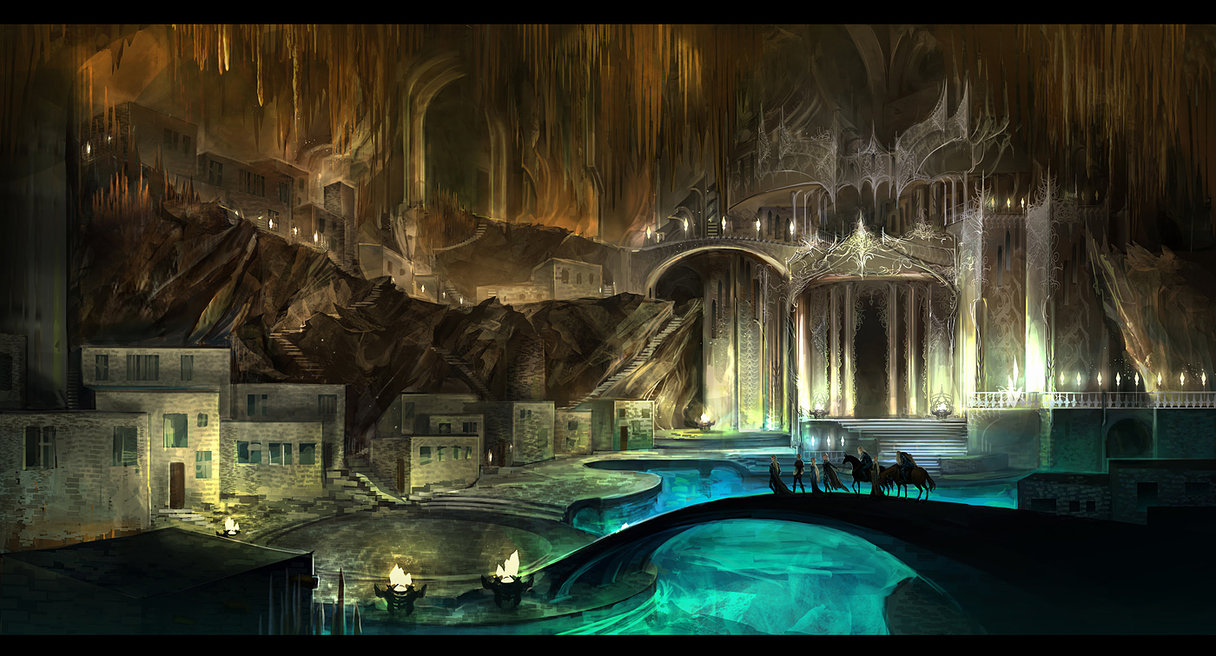
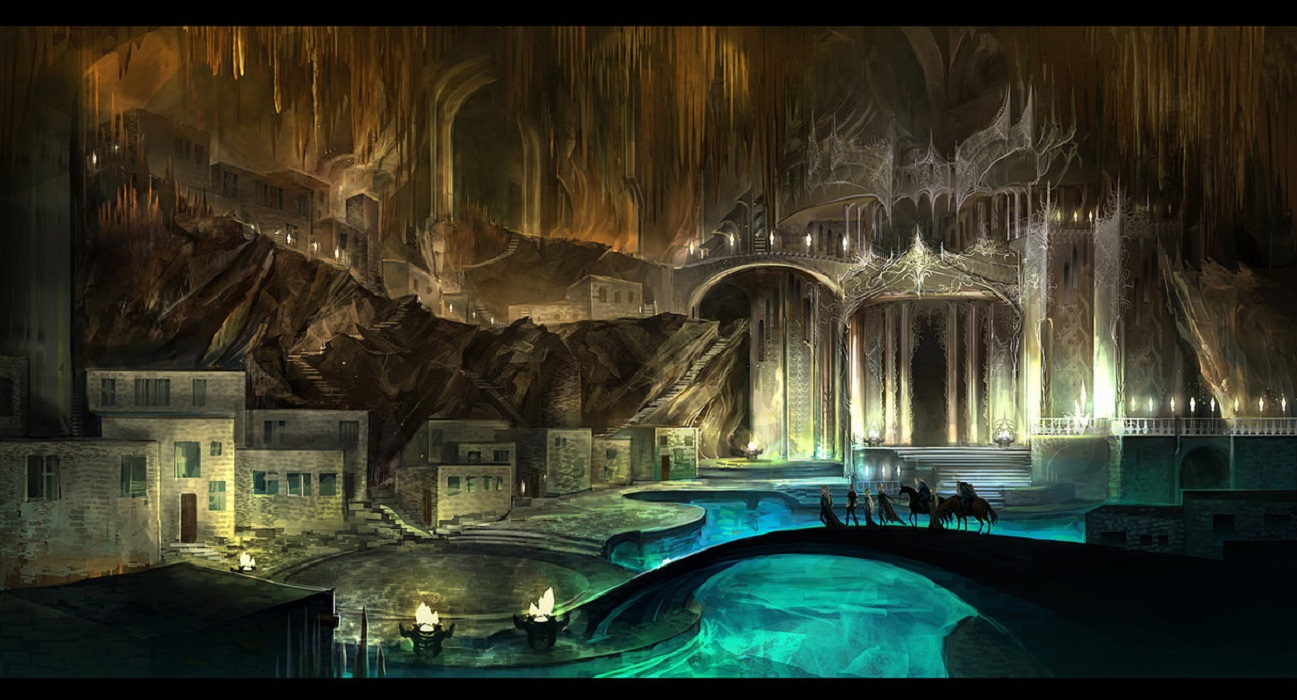
pics and town reworks

diff --git a/public/app/battle/battle.js b/public/app/battle/battle.js
@@ -1,156 +1,157 @@
 app.factory('battle', function(Hero, notifier){
 
-        return {
-            battle: function(hero, minion){  //Otherwise it is used once
-                var turnCount = 1,
-                    enemyMove = false,
-                    winLoseCheck = false;
+    return {
+        battle: function(hero, minion){  //Otherwise it is used once
+            var turnCount = 1,
+                enemyMove = false,
+                winLoseCheck = false;
 
-                function getRandomInt(min, max) {
-                    return Math.floor(Math.random() * (max - min + 1)) + min;
+            function getRandomInt(min, max) {
+                return Math.floor(Math.random() * (max - min + 1)) + min;
+            }
+
+            function getAttack(attacker) {
+                return getRandomInt(attacker.dm[0], attacker.dm[1]);
+            }
+
+            function getDefense(defender) {
+                return Math.round(defender.df + (getRandomInt(0, 10) / 100));
+            }
+
+            function Atack(attacker, defender) {
+                var attackerAtack = getAttack(attacker),
+                    defenderDefense = getDefense(defender);
+
+                if (attackerAtack > defenderDefense) {
+                    defender.hp -= attackerAtack - defenderDefense;
+                    updateLogger(attacker, attackerAtack - defenderDefense, defender);
+                    CheckWinLose();
                 }
-
-                function getAttack(attacker) {
-                    return getRandomInt(attacker.dm[0], attacker.dm[1]);
+                else if (attackerAtack < defenderDefense) {
+                    defender.hp -= defenderDefense - attackerAtack;
+                    updateLogger(defender, defenderDefense - attackerAtack, attacker);
+                    CheckWinLose();
                 }
-
-                function getDefense(defender) {
-                    return Math.round(defender.df + (getRandomInt(0, 10) / 100));
+                else {
+                    updateLogger(attacker, 0, defender);
                 }
+            }
 
-                function Atack(attacker, defender) {
-                    var attackerAtack = getAttack(attacker),
-                        defenderDefense = getDefense(defender);
+            function Defend(attacker, defender) {
+                var attackerAtack = getAttack(attacker),
+                    defenderDefense = getDefense(defender);
 
-                    if (attackerAtack > defenderDefense) {
-                        defender.hp -= attackerAtack - defenderDefense;
-                        updateLogger(attacker, attackerAtack - defenderDefense, defender);
-                        CheckWinLose();
-                    }
-                    else if (attackerAtack < defenderDefense) {
-                        defender.hp -= defenderDefense - attackerAtack;
-                        updateLogger(defender, defenderDefense - attackerAtack, attacker);
-                        CheckWinLose();
-                    }
-                    else {
-                        updateLogger(attacker, 0, defender);
-                    }
+                if (defenderDefense > attackerAtack) {
+                    attacker.hp -= defenderDefense - attackerAtack;
+                    updateLogger(defender, defenderDefense - attackerAtack, attacker);
+                    CheckWinLose();
                 }
-
-                function Defend(attacker, defender) {
-                    var attackerAtack = getAttack(attacker),
-                        defenderDefense = getDefense(defender);
-
-                    if (defenderDefense > attackerAtack) {
-                        attacker.hp -= defenderDefense - attackerAtack;
-                        updateLogger(defender, defenderDefense - attackerAtack, attacker);
-                        CheckWinLose();
-                    }
-                    else if (defenderDefense < attackerAtack) {
-                        defender.hp -= attackerAtack - defenderDefense;
-                        updateLogger(attacker, attackerAtack - defenderDefense, defender);
-                        CheckWinLose();
-                    }
-                    else {
-                        updateLogger(attacker, 0, defender);
-                    }
+                else if (defenderDefense < attackerAtack) {
+                    defender.hp -= attackerAtack - defenderDefense;
+                    updateLogger(attacker, attackerAtack - defenderDefense, defender);
+                    CheckWinLose();
                 }
-
-                function Escape() {
-                    var chance = getRandomInt(0, 1);
-                    if (chance === 0) {
-                        notifier.success("ESCAPED");
-                        //alert("ESCAPED");
-                        window.location.href = '#/map';
-                    }
-                    else {
-                        notifier.error("You couldn't Escape!")
-                        //alert("You couldn't Escape!");
-                    }
+                else {
+                    updateLogger(attacker, 0, defender);
                 }
+            }
 
-                function CheckWinLose() {
-                    if (hero.hp <= 0 && winLoseCheck == false) {
-                        winLoseCheck = true;
-                        notifier.error('YOU LOST');
-                        //alert("YOU LOST");
-                        hero.location = hero.home;
-                        Hero.updateHero(hero)
-                        window.location.href = '#/town';
-                    }
-                    if (minion.hp <= 0 && winLoseCheck == false) {
-                        winLoseCheck = true;
-                        notifier.success("YOU WIN\n" + "you got " + minion.gold + "gold and " + minion.ss + "soul stones!");
-                        //alert("YOU WIN\n" + "you got " + minion.gold + "gold and " + minion.ss + "soul stones!");
-                        hero.gold += minion.gold;
-                        hero.ss += minion.ss;
-                        window.location.href = '#/map';
-                    }
-                    Hero.updateHero(hero)
+            function Escape() {
+                var chance = getRandomInt(0, 1);
+                if (chance === 0) {
+                    notifier.success("ESCAPED");
+                    //alert("ESCAPED");
+                    window.location.href = '#/map';
                 }
-
-                function getEnemyMove() {
-                    var playerAtack = getAttack(hero),
-                        playerDefense = getDefense(hero),
-                        minionDefense = getDefense(minion),
-                        minionAtack = getAttack(minion);
-
-                    if (playerDefense < minionAtack) {
-                        $('#logger').append('Enemy desided to attack!').append('<br/>');
-                        updateScroll();
-                        Atack(minion, hero);
-                        enemyMove = false;
-                    }
-                    else if (playerAtack < minionDefense) {
-                        $('#logger').append('Enemy desided to defend!').append('<br/>');
-                        updateScroll();
-                        Defend(hero, minion);
-                        enemyMove = false;
-                    }
-                    else {
-                        $('#logger').append('Enemy desided to pass!').append('<br/>');
-                        updateScroll();
-                        //PASS
-                    }
+                else {
+                    notifier.error("You couldn't Escape!")
+                    //alert("You couldn't Escape!");
                 }
+            }
 
-                function updateScroll() {
-                    $('#battleLog').scrollTop($('#battleLog')[0].scrollHeight);
+            function CheckWinLose() {
+                if (hero.hp <= 0 && winLoseCheck == false) {
+                    winLoseCheck = true;
+                    notifier.error('YOU LOST');
+                    //alert("YOU LOST");
+                    hero.location = hero.home;
+                    Hero.updateHero(hero);
+                    window.location.href = '#/town';
                 }
-
-                function updateLogger(deler, dm, receiver) {
-                    $('#logger').append(deler.name + ' dealt ' + dm + ' damage to ' + receiver.name).append('<br/>');
-                    updateScroll()
+                if (minion.hp <= 0 && winLoseCheck == false) {
+                    winLoseCheck = true;
+                    notifier.success("YOU WIN\n" + "you got " + minion.gold + "gold and " + minion.ss + "soul stones!");
+                    //alert("YOU WIN\n" + "you got " + minion.gold + "gold and " + minion.ss + "soul stones!");
+                    hero.gold += minion.gold;
+                    hero.ss += minion.ss;
+                    window.location.href = '#/map';
                 }
+                Hero.updateHero(hero)
+            }
 
- /*ATTACK*/     $('#attack').click(function () {
-                    $('#logger').append('===TURN ' + turnCount + '===').append('<br/>');
-                    turnCount++;
-                    $('#logger').append('You attack!').append('<br/>')
-                    Atack(hero, minion);
-                    getEnemyMove();
-                });
+            function getEnemyMove() {
+                var playerAtack = getAttack(hero),
+                    playerDefense = getDefense(hero),
+                    minionDefense = getDefense(minion),
+                    minionAtack = getAttack(minion);
+
+                if (playerDefense < minionAtack) {
+                    $('#logger').append('Enemy desided to attack!').append('<br/>');
+                    updateScroll();
+                    Atack(minion, hero);
+                    enemyMove = false;
+                }
+                else if (playerAtack < minionDefense) {
+                    $('#logger').append('Enemy desided to defend!').append('<br/>');
+                    updateScroll();
+                    Defend(hero, minion);
+                    enemyMove = false;
+                }
+                else {
+                    $('#logger').append('Enemy desided to pass!').append('<br/>');
+                    updateScroll();
+                    //PASS
+                }
+            }
+
+            function updateScroll() {
+                $('#battleLog').scrollTop($('#battleLog')[0].scrollHeight);
+            }
+
+            function updateLogger(deler, dm, receiver) {
+                $('#logger').append(deler.name + ' dealt ' + dm + ' damage to ' + receiver.name).append('<br/>');
+                updateScroll()
+            }
+
+
+/*ATTACK*/     $('#attack').click(function () {
+                $('#logger').append('===TURN ' + turnCount + '===').append('<br/>');
+                turnCount++;
+                $('#logger').append('You attack!').append('<br/>')
+                Atack(hero, minion);
+                getEnemyMove();
+            });
 
 /*DEFEND*/      $('#defend').click(function(){
-                    $('#logger').append('===TURN ' + turnCount +'===').append('<br/>');
-                    turnCount++;
-                    $('#logger').append('You defend!').append('<br/>')
-                    Defend(minion, hero);
-                    getEnemyMove();
-                });
+                $('#logger').append('===TURN ' + turnCount +'===').append('<br/>');
+                turnCount++;
+                $('#logger').append('You defend!').append('<br/>')
+                Defend(minion, hero);
+                getEnemyMove();
+            });
 /*ITEM*/        $('#item').click(function(){
-                    $('#logger').append('===TURN ' + turnCount +'===').append('<br/>');
-                    turnCount++;
-                    $('#logger').append('You defend!').append('<br/>')
-                    getEnemyMove();
-                });
+                $('#logger').append('===TURN ' + turnCount +'===').append('<br/>');
+                turnCount++;
+                $('#logger').append('You defend!').append('<br/>')
+                getEnemyMove();
+            });
 /*ESCAPE*/      $('#escape').click(function(){
-                    $('#logger').append('===TURN ' + turnCount +'===').append('<br/>');
-                    turnCount++;
-                    $('#logger').append('You try to escape!').append('<br/>');
-                    Escape();
-                    getEnemyMove()
-                });
-            }
+                $('#logger').append('===TURN ' + turnCount +'===').append('<br/>');
+                turnCount++;
+                $('#logger').append('You try to escape!').append('<br/>');
+                Escape();
+                getEnemyMove()
+            });
         }
+    }
 });

diff --git a/public/css/town.css b/public/css/town.css
@@ -17,3 +17,25 @@
 .table {
   box-shadow: 0 0 17px 3px rgba(0,0,0,0.8) inset;
 }
+#merchant {
+  background-image: url("/pictures/backgrounds/buildingSelect/dmerchant.jpg");
+  height: 62px;
+  width: 118px;
+  position: relative;
+  top: 529px;
+  left: 278px;
+}
+#merchant:hover {
+  box-shadow: 0 0 14px 7px rgba(255,255,0,0.8) inset;
+}
+.merchantBuilding {
+  background-image: url("/pictures/backgrounds/buildings/merchant.jpg");
+}
+.armoryBuilding {
+  background-image: url("/pictures/backgrounds/buildings/armory.png");
+}
+.building {
+  background-size: cover;
+  width: 990px;
+  height: 800px;
+}

diff --git a/public/app/map/mapController.js b/public/app/map/mapController.js
@@ -70,4 +70,5 @@ app.controller('mapController', function($scope, identity, Hero, MinionResource,
     }
 
     $('.town').tooltip();
+    $('.round-button').tooltip();
 });

diff --git a/public/css/site.css b/public/css/site.css
@@ -112,3 +112,6 @@ footer p {
   margin: 10px;
   float: left;
 }
+table {
+  background-color: rgba(0,0,0,0.4);
+}
